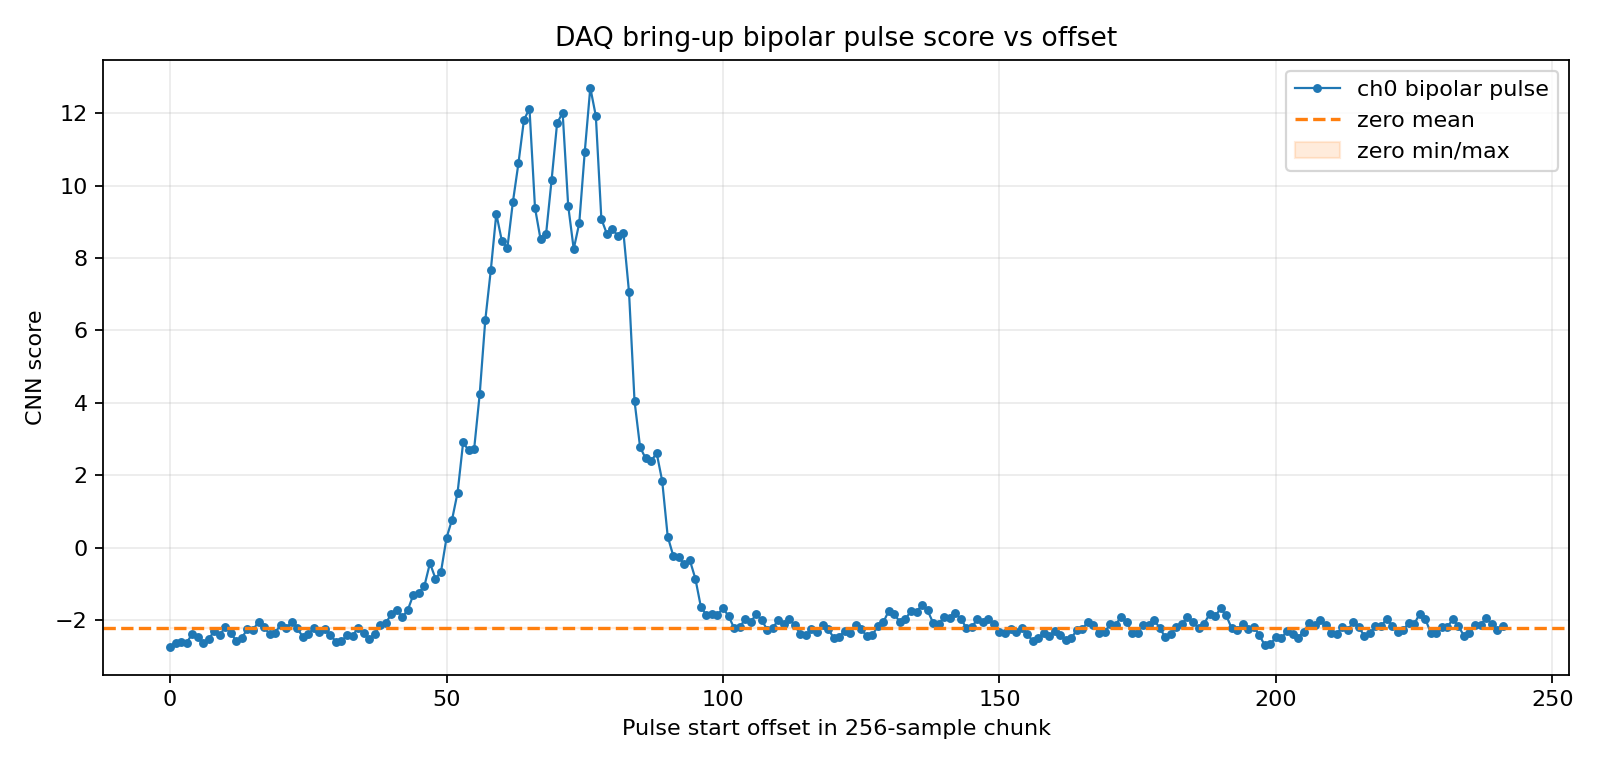
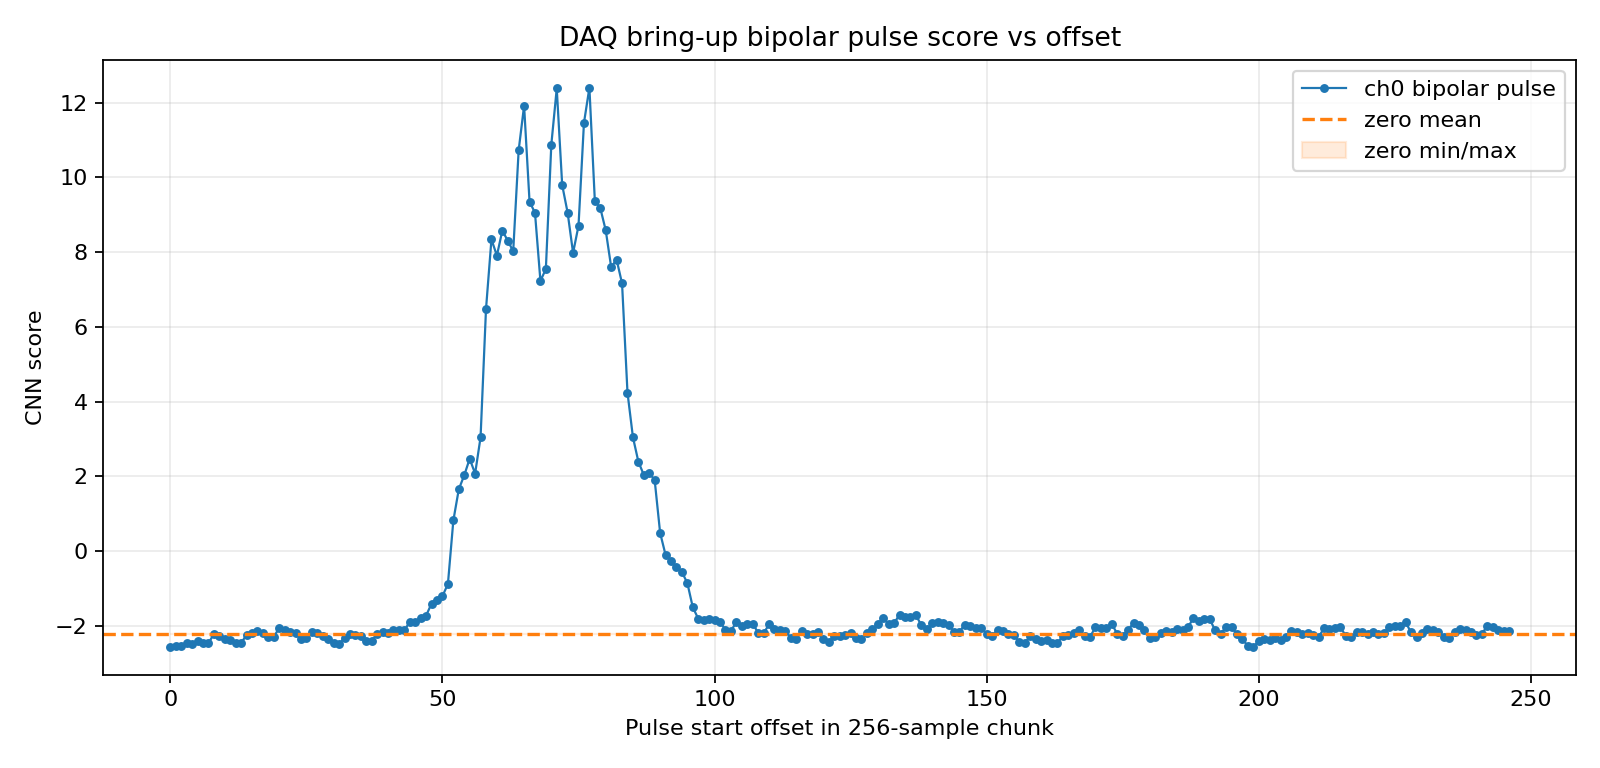
recommended THR from 4 to 2

diff --git a/docs/Deliverables.md b/docs/Deliverables.md
@@ -106,12 +106,12 @@ For testing purposes, you can ignore timestamp in this version.
 | `RST` | in | Active-high reset for the trigger system. |
 | `CNN_THRESH[31:0]` | in | Trigger threshold configuration. Only bits `[21:0]` are interpreted as signed `ap_fixed<22,11>` raw threshold data. `CNN_THRESH[31:22]` is ignored. Also `[MSB:LSB]`. |
 
-In current version, for testing purpose, please configure `CNN_THRESH=4.0`. Specifically, give a constant input:
+In current version, for testing purpose, please configure `CNN_THRESH=2.0`. Specifically, give a constant input:
 
 ```
 use ieee.numeric_std.all;
 
-CNN_THRESH <= std_logic_vector(to_signed(8192, 32));  -- 32'h00002000
+CNN_THRESH <= std_logic_vector(to_signed(4096, 32));  -- 32'h00001000
 ```
 
 See below for more details. 
@@ -174,9 +174,9 @@ Simply put, the input is:
 
 1. Connect the waveform generator only to `ch0`. 
 2. Set the input of other 7 channels to 0
-3. Input a bipolar waveform shaped `5 ns +50 mV, 5 ns -50 mV` to ch0. Ensure that the interval between any two pulses is greater than 2 μs and is not an integer multiple of 256 ns. Therefore, we recommend using `3pps`. Approximately 12.0%, or a similar proportion, of the waveforms will be triggered and sent to the backend for recording.
+3. Input a bipolar waveform shaped `5 ns +50 mV, 5 ns -50 mV` to ch0. Ensure that the interval between any two pulses is greater than 2 μs and is not an integer multiple of 256 ns. Therefore, we recommend using `3pps`. Approximately 14.2%, or a similar proportion, of the waveforms will be triggered and sent to the backend for recording.
 
-*Note: Since we set the CNN threshold to 4, only pulses that start between approximately 56th and 84th ns within a 256ns-chunk will be triggered. You'll notice that the recorded waveforms are mostly pulses that start during this time period:*
+*Note: Since we set the CNN threshold to 2, only pulses that start between approximately 54th and 88th ns within a 256ns-chunk will be triggered. You'll notice that the recorded waveforms are mostly pulses that start during this time period:*
 
 ![score_vs_offset](/Users/albert/Library/Mobile Documents/com~apple~CloudDocs/Works/UC_Irvine_Group/AI-Trigger-System/docs/score_vs_offset.png)
 
